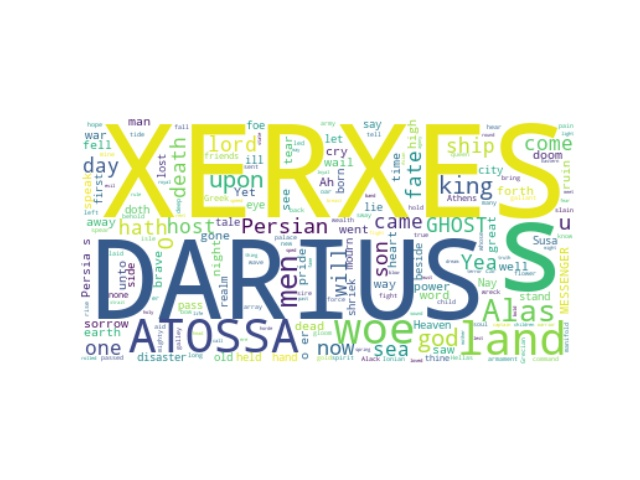
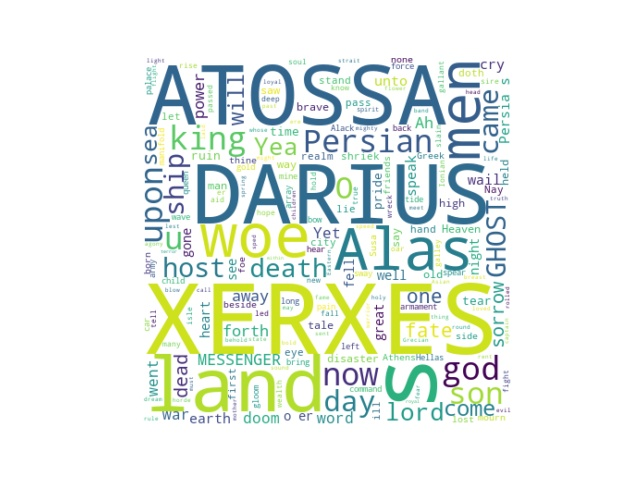
reshaped wordclouds

diff --git a/core/translation.py b/core/translation.py
@@ -15,7 +15,7 @@ class Translation:
         self.lines = len(self.text)
         self.polarity_score = SentimentIntensityAnalyzer().polarity_scores
         self.delimiter = delimiter
-        self.stopwords = ["ye", "thy", "thee", "hast", "chorus", "strophe", "antistrophe", "thou", "pg", "o'er", "chor", "hath"]
+        self.stopwords = ["ye", "thy", "thee", "hast", "chorus", "strophe", "antistrophe", "thou", "pg", "o'er", "chor", "hath", "0"]
 
     def print_info(self) -> None:
         print(f"{self.translator}, {self.year}. Lines: {self.lines}")
@@ -65,10 +65,10 @@ class Translation:
         sign = score / np.abs(score) if score != 0 else 1
         return (score ** 2) * sign
 
-    def generate_wordcloud(self) -> WordCloud:
+    def generate_wordcloud(self, size) -> WordCloud:
         stopwords = set(STOPWORDS)
         stopwords.update(self.stopwords)
-        return WordCloud(stopwords = stopwords, background_color = "white").generate(" \n ".join(self.text))
+        return WordCloud(stopwords = stopwords, background_color = "white", width = size[0], height = size[1]).generate(" \n ".join(self.text))
 
     @staticmethod
     def load_text(file: str) -> List[str]:

diff --git a/driver.py b/driver.py
@@ -45,7 +45,7 @@ class Driver:
         for t in translations:
             t.print_info()
             plt.figure()
-            plt.imshow(t.generate_wordcloud(), interpolation = 'bilinear')
+            plt.imshow(t.generate_wordcloud(size = (400, 400)), interpolation = 'bilinear', cmap = 'Paired')
             plt.axis('off')
             plt.savefig(os.path.join(self.paths["figures"], "wordcloud_" + t.lastname + ".jpg"))
             #plt.show()
